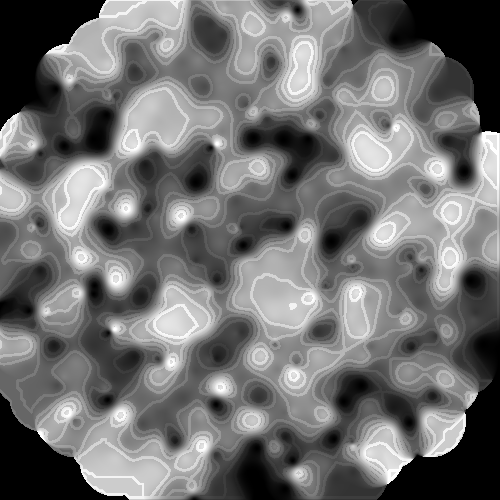
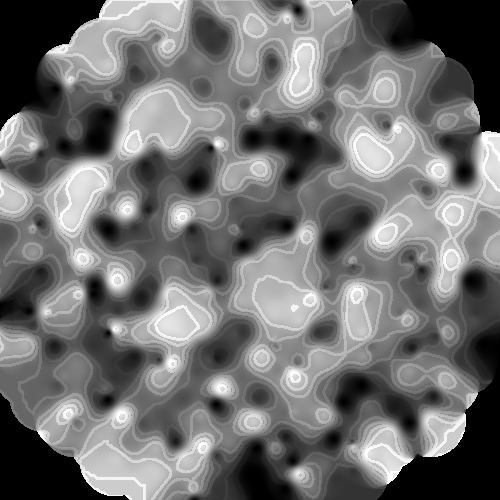
contours

diff --git a/src/map.rs b/src/map.rs
@@ -1,6 +1,6 @@
 use std::{collections::HashMap, error::Error, fmt::Debug, io::Write};
 
-use contour_isobands::isobands;
+use contour::ContourBuilder;
 use particlemap::items::{MsgParticle, MsgParticleMap, MsgParticleParameters};
 use prost::Message;
 
@@ -375,20 +375,26 @@ impl<T: ParticleMapAttributeLerp> ParticleMap<T> {
     }
 }
 
-pub struct IsobandResult {
+pub struct Band {
     pub threshold: f64,
     pub polygons: Vec<Vec<(f64, f64)>>,
 }
 
+enum VectorizationType {
+    Contour,
+    Isoband,
+}
+
 impl<T: ParticleMapAttributeLerp + Into<f64>> ParticleMap<T> {
-    pub fn isobands(
+    fn vectorize(
         &self,
+        vectorization_type: VectorizationType,
         corners: ((f64, f64), (f64, f64)),
         rasterise_scale: f64,
         thresholds: &[f64],
         interp_method: &InterpolationMethod,
-        multi_thread: bool,
-    ) -> Result<Vec<IsobandResult>, Box<dyn Error>> {
+        smooth: bool,
+    ) -> Result<Vec<Band>, Box<dyn Error>> {
         let ((original_min_x, original_min_y), (original_max_x, original_max_y)) = corners;
 
         let expansion = rasterise_scale * self.params.scale;
@@ -427,47 +433,116 @@ impl<T: ParticleMapAttributeLerp + Into<f64>> ParticleMap<T> {
             })
             .collect::<Vec<_>>();
 
-        let res_raster = isobands(
-            &raster_f64,
-            thresholds,
-            multi_thread,
-            width,
-            height,
-            multi_thread,
-        );
-        if let Err(e) = res_raster {
-            return Err(e.to_string().into());
-        }
+        let result_coord_to_domain = |x: f64, y: f64| {
+            (
+                (x / width as f64) * (domain_max_x - domain_min_x) + domain_min_x,
+                (y / height as f64) * (domain_max_y - domain_min_y) + domain_min_y,
+            )
+        };
 
-        let res_domain = res_raster
-            .unwrap()
-            .iter()
-            .map(|band| {
-                let threshold = band.1;
-                let polygons = band
-                    .0
+        match vectorization_type {
+            VectorizationType::Contour => {
+                let result =
+                    ContourBuilder::new(width, height, smooth).contours(&raster_f64, thresholds);
+                if let Err(e) = result {
+                    return Err(e.to_string().into());
+                }
+
+                let bands = result
+                    .unwrap()
                     .iter()
-                    .map(|polygon| {
-                        polygon
+                    .map(|contour| {
+                        let polygons = contour
+                            .geometry()
                             .iter()
-                            .map(|point| {
-                                let x = (point.x() / width as f64) * (domain_max_x - domain_min_x)
-                                    + domain_min_x;
-                                let y = (point.y() / height as f64) * (domain_max_y - domain_min_y)
-                                    + domain_min_y;
-                                (x, y)
+                            .map(|polygon| {
+                                let exterior = polygon.exterior();
+                                exterior
+                                    .0
+                                    .iter()
+                                    .map(|coord| result_coord_to_domain(coord.x, coord.y))
+                                    .collect::<Vec<_>>()
                             })
-                            .collect::<Vec<_>>()
+                            .collect::<Vec<_>>();
+
+                        Band {
+                            threshold: contour.threshold(),
+                            polygons,
+                        }
                     })
                     .collect::<Vec<_>>();
-                IsobandResult {
-                    threshold,
-                    polygons,
-                }
-            })
-            .collect::<Vec<_>>();
 
-        Ok(res_domain)
+                Ok(bands)
+            }
+            VectorizationType::Isoband => {
+                let result =
+                    ContourBuilder::new(width, height, smooth).isobands(&raster_f64, thresholds);
+                if let Err(e) = result {
+                    return Err(e.to_string().into());
+                }
+                let bands = result
+                    .unwrap()
+                    .iter()
+                    .map(|band| {
+                        let polygons = band
+                            .geometry()
+                            .iter()
+                            .map(|polygon| {
+                                let exterior = polygon.exterior();
+                                exterior
+                                    .0
+                                    .iter()
+                                    .map(|coord| result_coord_to_domain(coord.x, coord.y))
+                                    .collect::<Vec<_>>()
+                            })
+                            .collect::<Vec<_>>();
+
+                        Band {
+                            threshold: band.min_v(),
+                            polygons,
+                        }
+                    })
+                    .collect::<Vec<_>>();
+
+                Ok(bands)
+            }
+        }
+    }
+
+    pub fn contours(
+        &self,
+        corners: ((f64, f64), (f64, f64)),
+        rasterise_scale: f64,
+        thresholds: &[f64],
+        interp_method: &InterpolationMethod,
+        smooth: bool,
+    ) -> Result<Vec<Band>, Box<dyn Error>> {
+        self.vectorize(
+            VectorizationType::Contour,
+            corners,
+            rasterise_scale,
+            thresholds,
+            interp_method,
+            smooth,
+        )
+    }
+
+    pub fn isobands(
+        &self,
+        corners: ((f64, f64), (f64, f64)),
+        rasterise_scale: f64,
+        thresholds: &[f64],
+        interp_method: &InterpolationMethod,
+        smooth: bool,
+    ) -> Result<Vec<Band>, Box<dyn Error>> {
+        self.vectorize(
+            VectorizationType::Isoband,
+            corners,
+            rasterise_scale,
+            thresholds,
+            interp_method,
+            smooth,
+        )
     }
 }
 

diff --git a/examples/map-isobands.rs b/examples/map-isobands.rs
@@ -1,6 +1,6 @@
 use tiny_skia::{Paint, PathBuilder, Pixmap, Stroke, Transform};
 use worley_particle::{
-    map::{IDWStrategy, InterpolationMethod, IsobandResult, ParticleMap},
+    map::{Band, IDWStrategy, InterpolationMethod, ParticleMap},
     Particle, ParticleParameters,
 };
 
@@ -36,7 +36,7 @@ fn main() {
 
     let mut pixmap = Pixmap::new(image_width, image_height).unwrap();
 
-    for IsobandResult {
+    for Band {
         threshold,
         polygons,
     } in isobands
